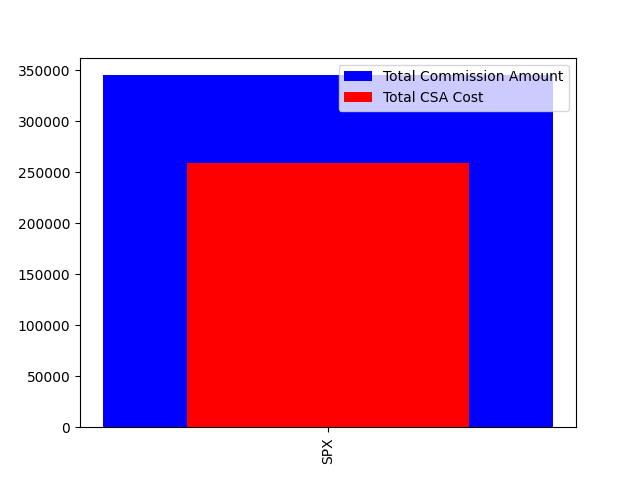
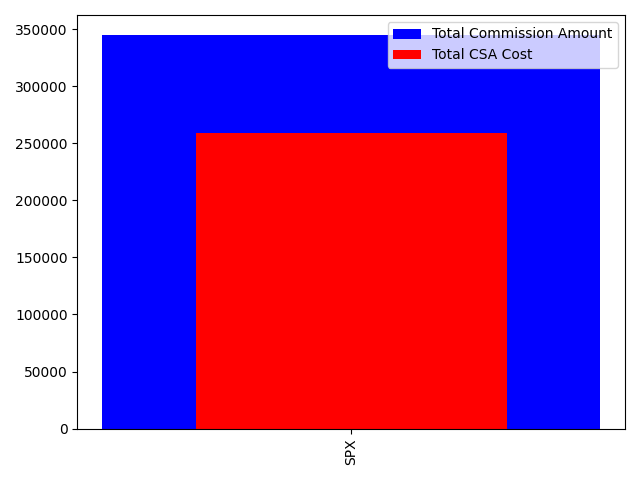
updated readme

diff --git a/helper.py b/helper.py
@@ -34,6 +34,7 @@ class CsaSummary:
         plt.bar(df.index, df['total_csa_cost'], width = .5,  color = 'r', label = 'Total CSA Cost')
         plt.xticks(rotation=90)
         plt.legend()
+        plt.tight_layout()
         plt.savefig(f'./img/{self.aggregate_column}_csa_summary')
         plt.show()
 

diff --git a/README.md b/README.md
@@ -23,6 +23,8 @@
 
 ![Summary by Account w/o account_26](./img/account_csa_summary_no_26.png)
 
+![Summary by Underlying](./img/Underlying_csa_summary.png)
+
 | Underlying   |   Commission |   total_csa_cost | portion_to_csa   |
 |:-------------|-------------:|-----------------:|:-----------------|
 | SPX          |       345012 |           258759 | 75.0%            |
